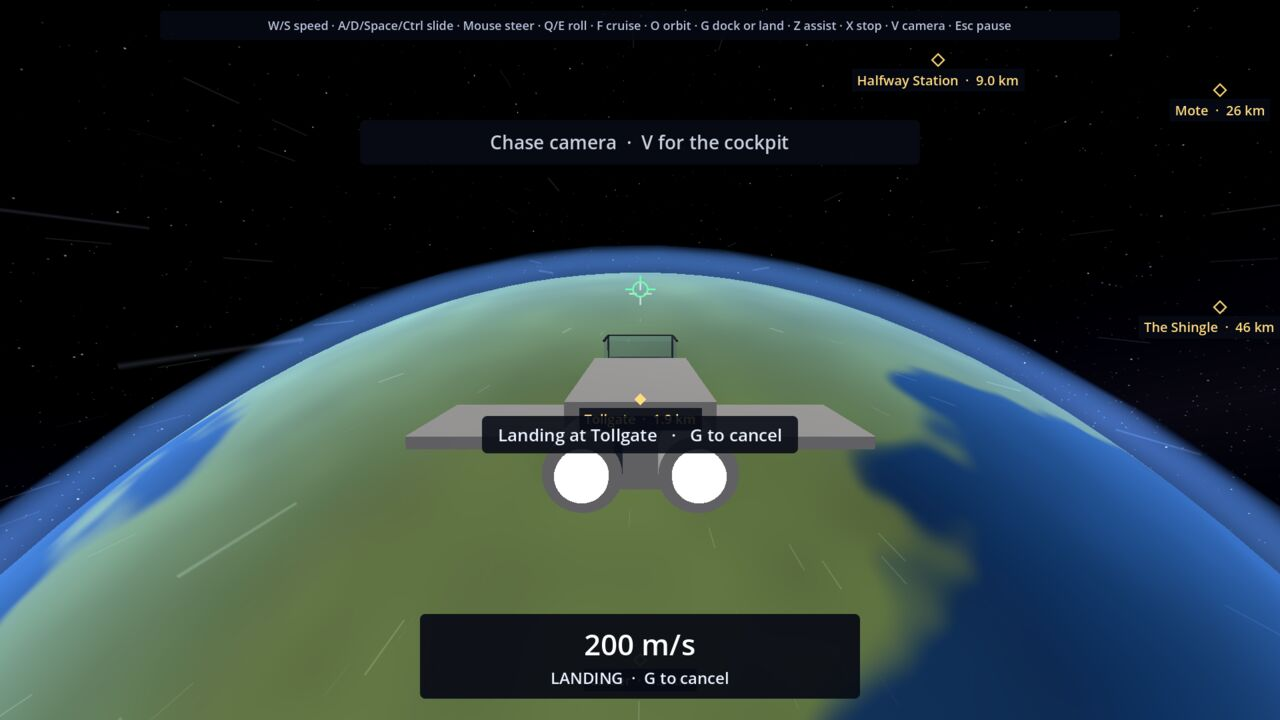
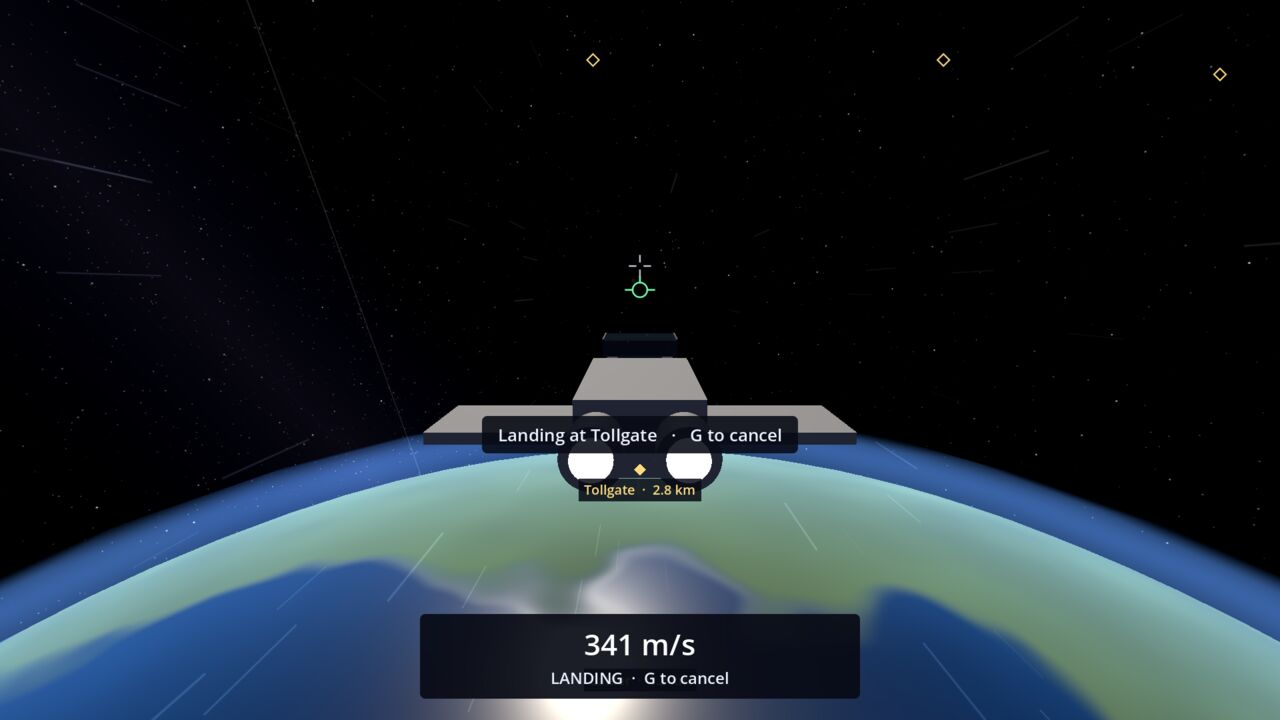
Wiki: fresh screenshots from the current build
Retaken on today's main (no key-hint bar, default place names, the
settings menu), plus the pause screen and two settings pages.

Claude-Session: https://claude.ai/code/session_01DcbdDR7W2tN6L78DiPksdf

diff --git a/docs/wiki/Settings-and-Accessibility.md b/docs/wiki/Settings-and-Accessibility.md
@@ -3,6 +3,8 @@
 Press **Esc** to pause, then **Settings**. The menu has four pages. Every change shows at once and is kept for next
 time. Each page has a button that puts its own settings back to their defaults. **Esc** goes back.
 
+![The pause screen, with Settings and the tow home](images/pause.jpg)
+
 ## Display
 
 | Setting | Choices | Starts at |
@@ -18,6 +20,8 @@ time. Each page has a button that puts its own settings back to their defaults. 
 
 ## Interface
 
+![The Interface page of the settings menu](images/settings-interface.jpg)
+
 | Setting | Choices | Starts at |
 | --- | --- | --- |
 | Interface size | 90%, 100%, 110%, 125% | 100% |
@@ -32,6 +36,8 @@ time. Each page has a button that puts its own settings back to their defaults. 
   the [Cruise Drive](Cruise-Drive).
 
 ## Comfort
+
+![The Comfort page of the settings menu](images/settings-comfort.jpg)
 
 | Setting | Choices | Starts at |
 | --- | --- | --- |

diff --git a/docs/wiki/Home.md b/docs/wiki/Home.md
@@ -33,5 +33,5 @@ yet. Those come next: see the [Roadmap](Roadmap).
 
 This wiki follows the newest development build: when something in the game changes, the page that describes it is
 updated in the same change. Anything still being built is on the [Roadmap](Roadmap), never described here as if you
-can play it. Names of places and ships are placeholders and may change. Pictures are from the development build, with
-simple stand-in models.
+can play it. Names of places and ships are placeholders and may change. Pictures are rough captures of the development build,
+with simple stand-in models, not how the finished game will look.

diff --git a/docs/wiki/Locations.md b/docs/wiki/Locations.md
@@ -30,7 +30,7 @@ Calder's base: a landing pad with a hangar, a control tower and a beacon. Press 
 
 Services: none yet. Jobs, trading and loan payments will be here (see the [Roadmap](Roadmap)).
 
-![Tollgate seen from above, on Calder's green land](images/tollgate-from-above.jpg)
+![Tollgate seen from the cockpit, 1.5 km above it](images/tollgate-from-above.jpg)
 
 ## Halfway Station
 
